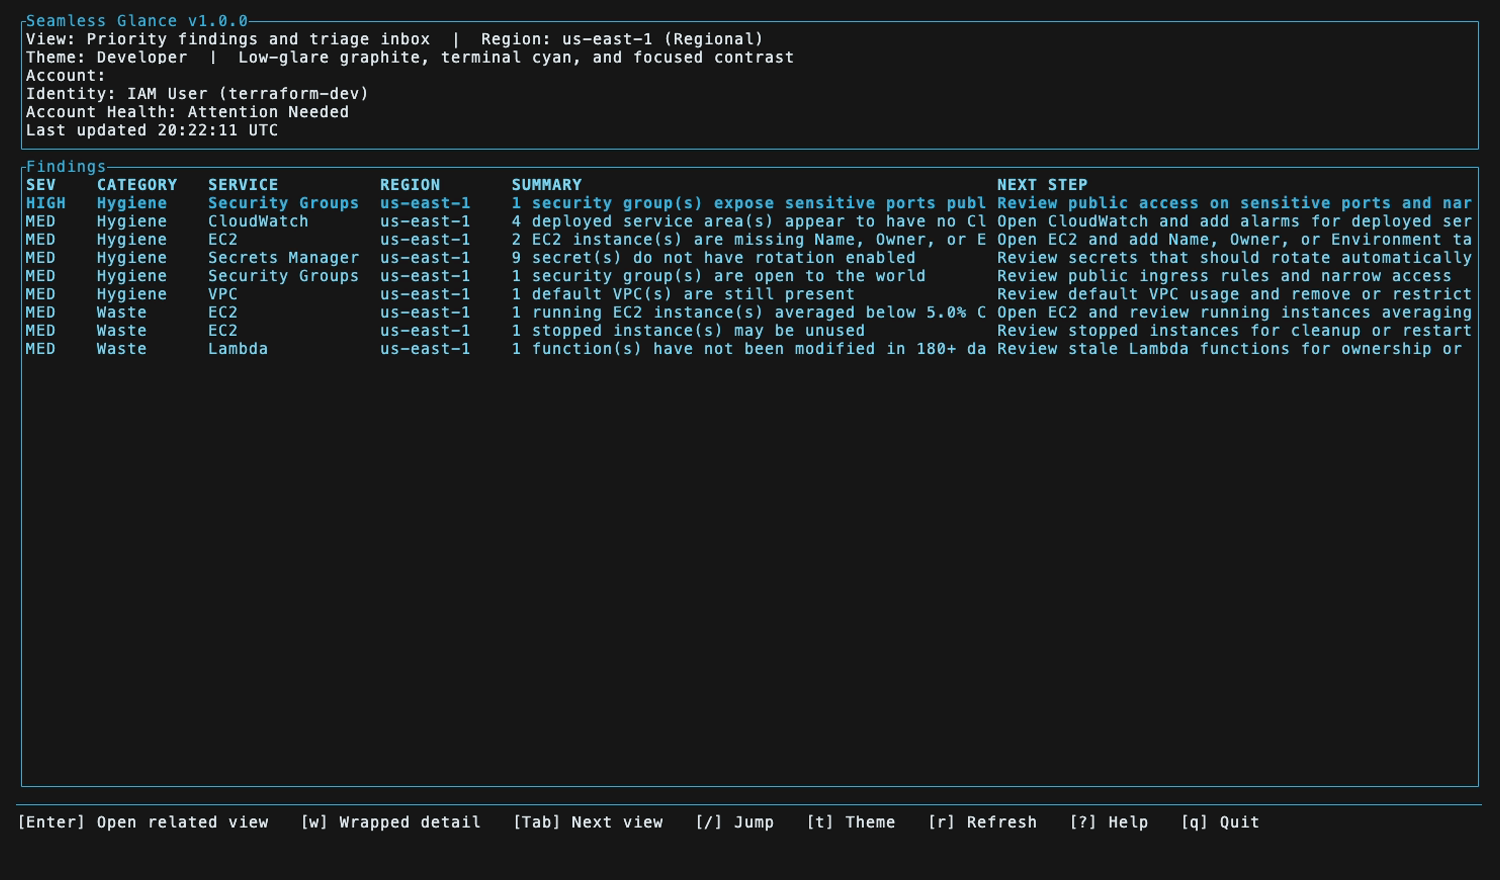
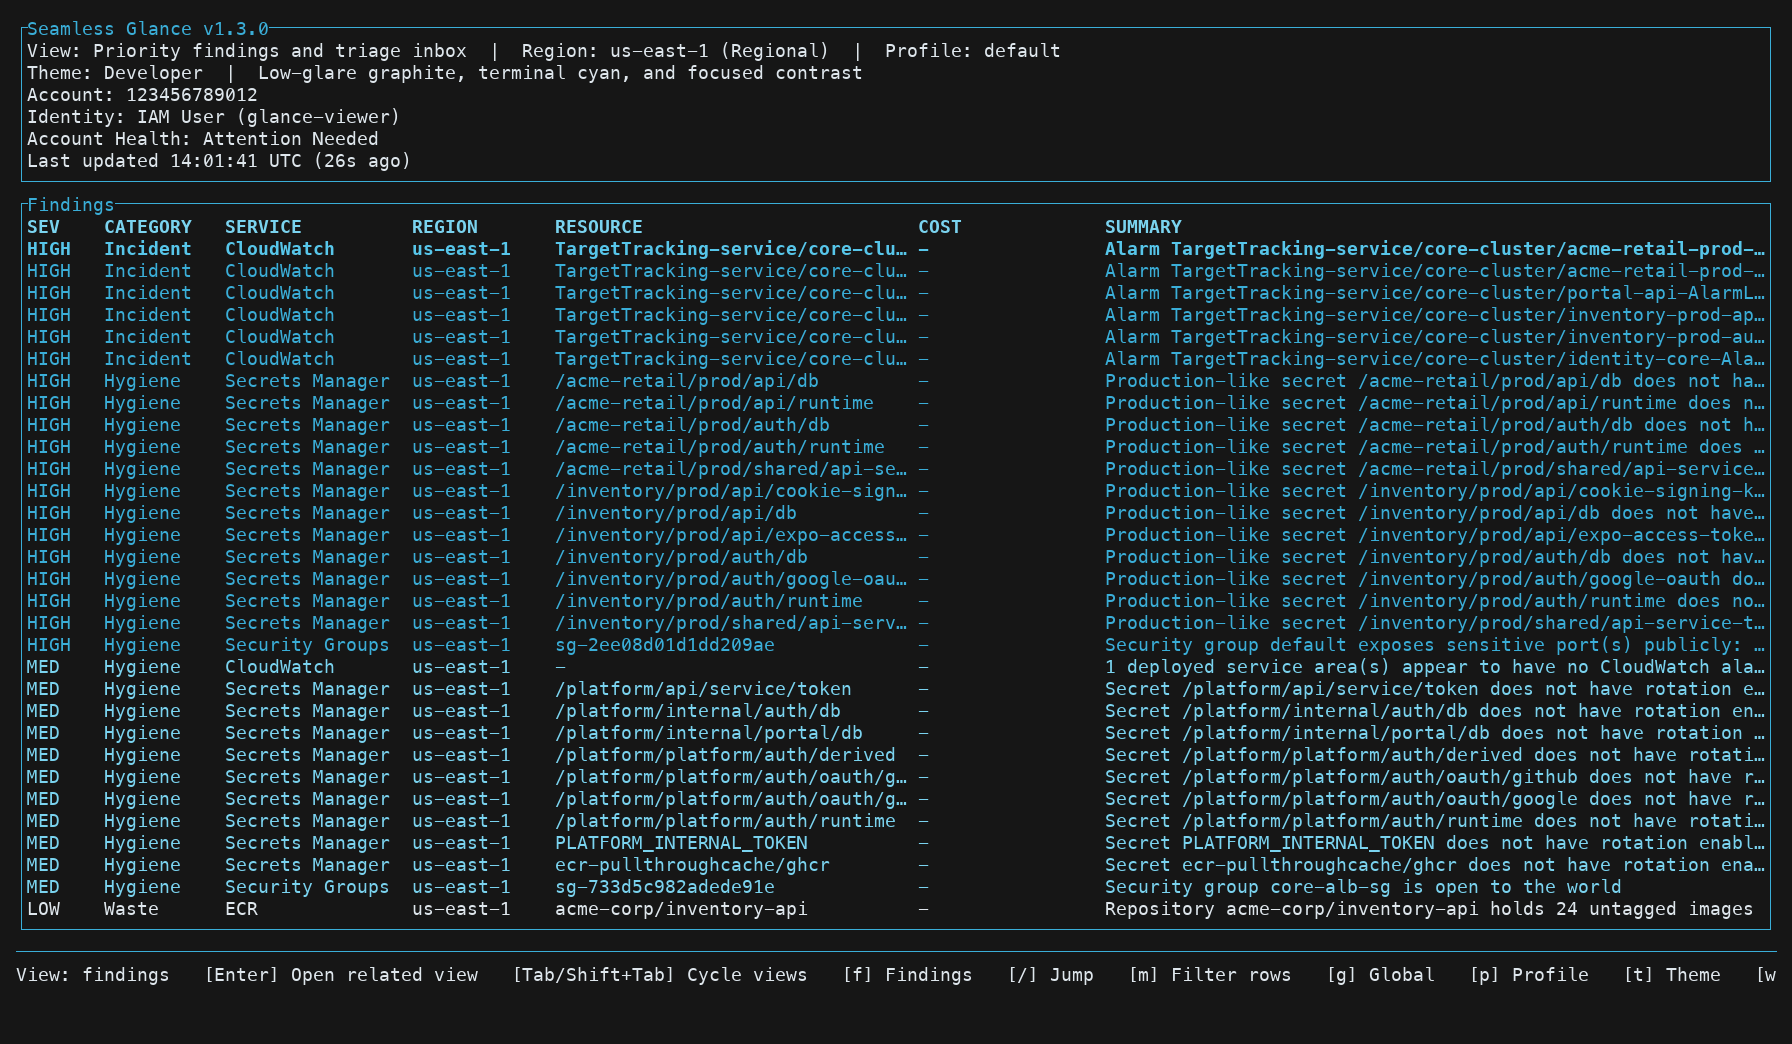
docs: refresh README screenshots from v1.3.0
Recapture the README screenshots from v1.3.0 with account and resource
identifiers replaced by placeholders, and show the CLI pivot, cost,
ECR, describe, CloudWatch, target group, security group, and account
views.

Changed region(s): [[0.0, 0.0, 1.0, 0.9511]]

diff --git a/README.md b/README.md
@@ -46,14 +46,24 @@ glance
 
 <table>
   <tr>
-    <td><img src="docs/images/03-cost.png" alt="Cost overview" /></td>
-    <td><img src="docs/images/04-cost-savings.png" alt="Cost savings" /></td>
+    <td width="50%"><img src="docs/images/04-cli-pivot.png" alt="Press c: the exact AWS CLI command for the selected resource" /><br /><sub>Press c: the exact AWS CLI command for the selected resource</sub></td>
+    <td width="50%"><img src="docs/images/03-cost.png" alt="Cost overview: spend, forecast, and the usage behind it" /><br /><sub>Cost overview: spend, forecast, and the usage behind it</sub></td>
   </tr>
   <tr>
-    <td align="center">Cost overview</td>
-    <td align="center">Cost savings</td>
+    <td width="50%"><img src="docs/images/05-ecr.png" alt="ECR: untagged images and missing lifecycle policies" /><br /><sub>ECR: untagged images and missing lifecycle policies</sub></td>
+    <td width="50%"><img src="docs/images/10-describe.png" alt="Press d: describe any resource in place" /><br /><sub>Press d: describe any resource in place</sub></td>
+  </tr>
+  <tr>
+    <td width="50%"><img src="docs/images/06-cloudwatch.png" alt="CloudWatch alarms by state" /><br /><sub>CloudWatch alarms by state</sub></td>
+    <td width="50%"><img src="docs/images/07-target-groups.png" alt="Target group health" /><br /><sub>Target group health</sub></td>
+  </tr>
+  <tr>
+    <td width="50%"><img src="docs/images/08-security-groups.png" alt="Security groups open to the world" /><br /><sub>Security groups open to the world</sub></td>
+    <td width="50%"><img src="docs/images/02-overview.png" alt="Account inventory snapshot" /><br /><sub>Account inventory snapshot</sub></td>
   </tr>
 </table>
+
+<sub>Captured from v1.3.0 against a real account. Account IDs, resource IDs, and internal names are replaced with placeholders.</sub>
 
 ## Install
 
